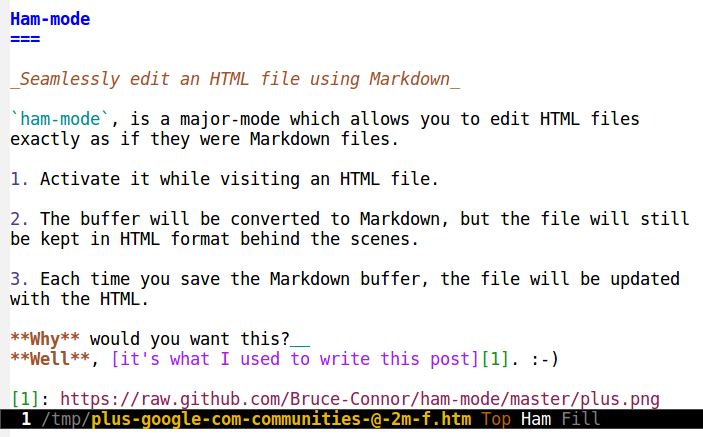
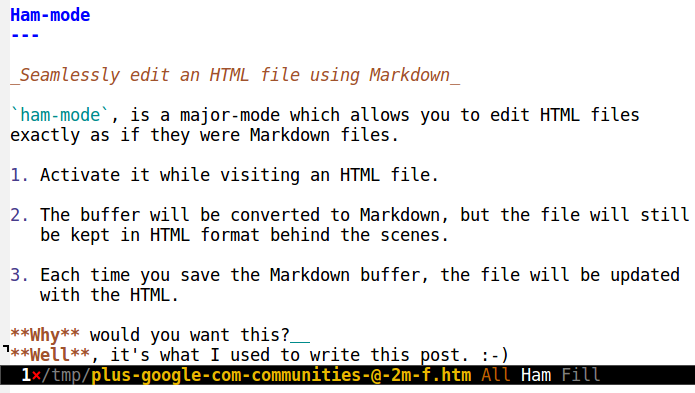
Add pic

diff --git a/README.md b/README.md
@@ -36,3 +36,11 @@ For instance, the following snippet will activate `ham-mode` in any
         (add-to-list 'auto-mode-alist '(".*email.*\\.html?\\'" . ham-mode))
 
 
+Example
+----
+
+[This post here][] was written using `ham-mode`:  
+![Markdown](https://raw.github.com/Bruce-Connor/ham-mode/master/plus.png)
+
+[This post here]: #
+
